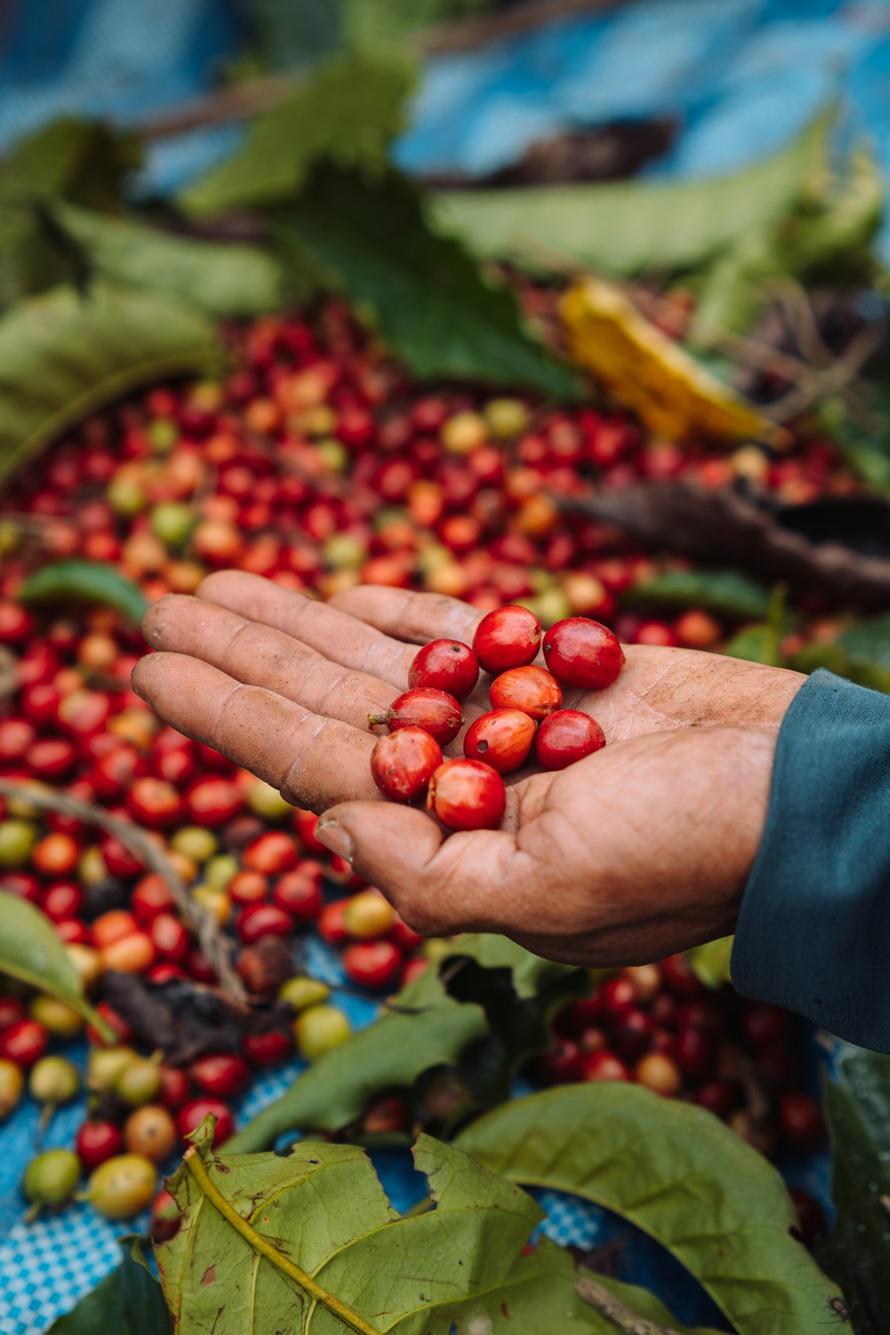
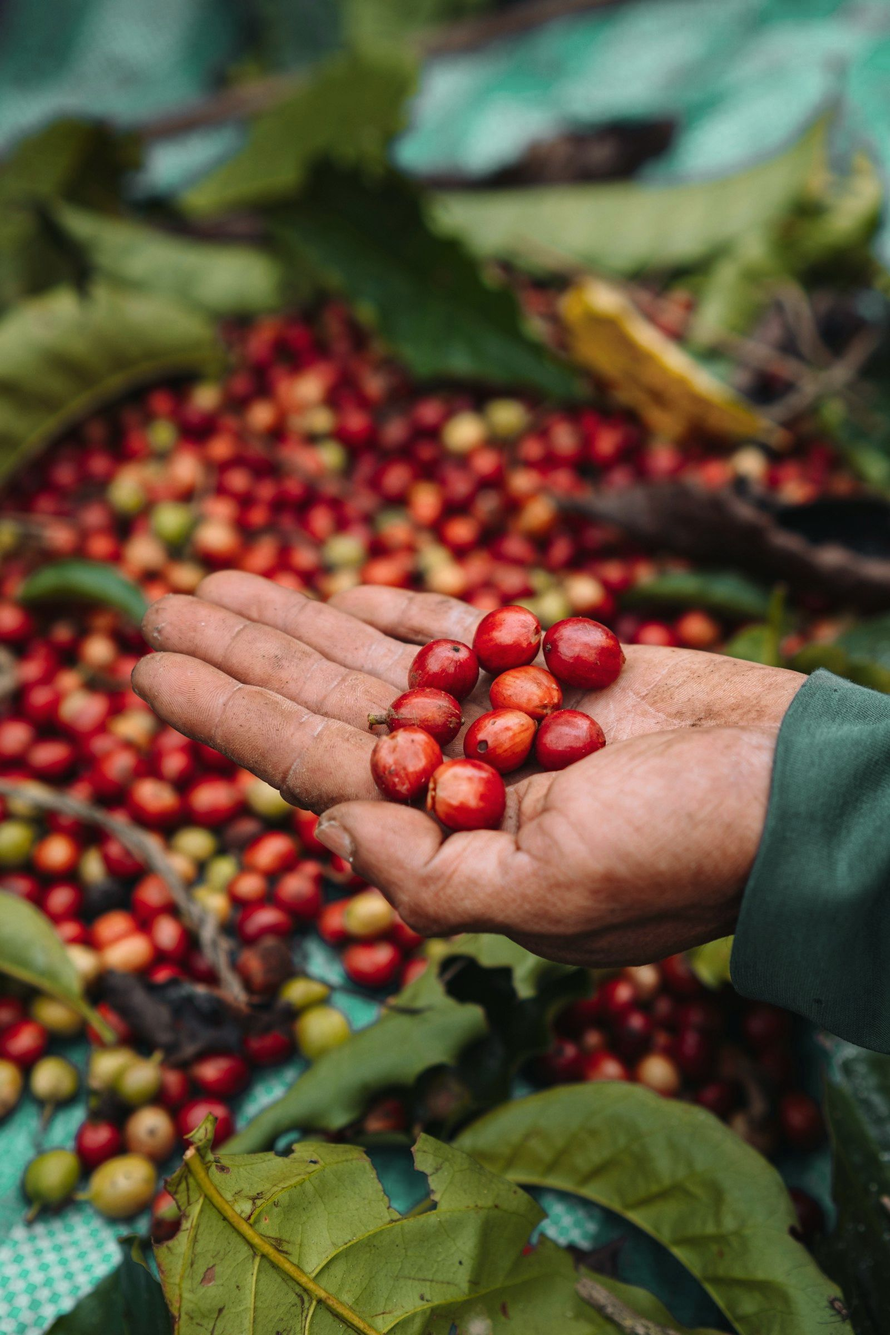
Aplicar correcciones de la revisión de diseño
- Marcar datos, precios y lotes como de ejemplo
- Gradación verde común en todas las fotografías
- Quitar etiqueta superior de la ficha del lote y la cinta dorada de la tarjeta
- Controles anterior/siguiente en el archivo y numerales sin cortes en móvil
- Acción principal del hero: Comprar el lote

Claude-Session: https://claude.ai/code/session_01PXgD8Bq7vhNtAddY695vt4

diff --git a/styles.css b/styles.css
@@ -208,8 +208,7 @@ button { cursor: pointer; -webkit-tap-highlight-color: transparent; }
   box-shadow: 0 30px 60px -20px rgba(0, 0, 0, .45);
   animation: fade 900ms 600ms var(--ease-out) both;
 }
-.lotcard__name { margin: 0; font-size: .82rem; font-weight: 700; letter-spacing: .08em; text-transform: uppercase; color: var(--emerald); }
-.lotcard__origin { margin: 6px 0 0; font-family: var(--display); font-size: 2rem; line-height: 1.05; color: var(--forest); }
+.lotcard__origin { margin: 0; font-family: var(--display); font-size: 2rem; line-height: 1.05; color: var(--forest); }
 .lotcard__notes { margin: 10px 0 18px; font-size: .95rem; color: var(--ink-soft); }
 .lotcard__row { display: flex; align-items: center; justify-content: space-between; gap: 12px; padding-top: 16px; border-top: 1px solid var(--line); }
 .lotcard__price { margin: 0; font-family: var(--display); font-size: 1.6rem; color: var(--forest); font-variant-numeric: tabular-nums; }
@@ -326,7 +325,6 @@ button { cursor: pointer; -webkit-tap-highlight-color: transparent; }
   box-shadow: 0 30px 50px -18px rgba(14, 34, 25, .4);
   transform: rotate(-2.5deg);
 }
-.giftcard::before { content: ""; position: absolute; top: -8px; left: 28px; width: 46px; height: 16px; background: var(--brass); border-radius: 2px; opacity: .9; }
 .giftcard__to { margin: 0 0 8px; font-family: var(--display); font-size: 1.7rem; color: var(--forest); }
 .giftcard__msg { margin: 0 0 18px; font-family: var(--display); font-size: 1.15rem; line-height: 1.35; color: var(--emerald); min-height: 3em; overflow-wrap: anywhere; }
 .giftcard__from { margin: 0; padding-top: 12px; border-top: 1px solid var(--line); font-size: .8rem; color: var(--ink-soft); }
@@ -365,6 +363,15 @@ button { cursor: pointer; -webkit-tap-highlight-color: transparent; }
 /* ---------- ARCHIVO ---------- */
 .archive { padding: var(--section) 0; }
 .archive__head { max-width: var(--wrap); margin: 0 auto 56px; padding: 0 var(--gutter); display: grid; grid-template-columns: 1fr 1fr; gap: 48px; align-items: end; }
+.archive__side { display: grid; gap: 20px; }
+.sample-inline { color: var(--emerald); font-weight: 600; }
+.sample-note { margin: -16px 0 32px; font-size: .85rem; color: var(--ink-soft); }
+.rail-ctrl { display: flex; gap: 8px; }
+.rail-btn { display: grid; place-items: center; width: 48px; height: 48px; border: 1px solid var(--line); border-radius: 50%; background: transparent; color: var(--forest); transition: background-color 200ms ease, color 200ms ease, transform 160ms var(--ease-out), opacity 200ms ease; }
+.rail-btn svg { width: 20px; height: 20px; fill: none; stroke: currentColor; stroke-width: 1.6; }
+.rail-btn:active { transform: scale(.94); }
+.rail-btn:disabled { opacity: .35; cursor: default; }
+@media (hover: hover) and (pointer: fine) { .rail-btn:not(:disabled):hover { background: var(--forest); color: var(--on-dark); } }
 .archive__head p { margin: 0; font-size: 1.1rem; color: var(--ink-soft); max-width: 30em; }
 .rail {
   display: grid; grid-auto-flow: column; grid-auto-columns: clamp(260px, 26vw, 330px); gap: 16px;
@@ -379,7 +386,7 @@ button { cursor: pointer; -webkit-tap-highlight-color: transparent; }
   display: flex; flex-direction: column; min-height: 400px; padding: 28px;
   border-radius: 6px; color: var(--on-dark);
 }
-.plate .plate__n { margin: 0 0 auto; font-family: var(--display); font-size: 5.2rem; line-height: .9; letter-spacing: -.03em; }
+.plate .plate__n { margin: 0 0 auto; white-space: nowrap; font-family: var(--display); font-size: clamp(3.6rem, 5vw, 5.2rem); line-height: .9; letter-spacing: -.03em; }
 .plate h3 { margin: 0 0 6px; font-family: var(--display); font-weight: 400; font-size: 1.75rem; line-height: 1.1; }
 .plate p { margin: 0; font-size: .95rem; }
 .plate__tag { align-self: flex-start; margin-bottom: 18px; padding: 4px 12px; border: 1px solid currentColor; border-radius: 999px; font-size: .78rem; font-weight: 600; }

diff --git a/index.html b/index.html
@@ -67,15 +67,14 @@
             Para servírtelo despacio, o para sorprender a alguien que lo merece.
           </p>
           <div class="hero__ctas">
-            <a href="#lote" class="btn btn--light">Descubrir el lote</a>
+            <a href="#lote" class="btn btn--light">Comprar el lote</a>
             <a href="#regalar" class="btn btn--line-light">Regalar due.</a>
           </div>
         </div>
 
         <aside class="lotcard" aria-label="Lote de esta temporada">
-          <p class="lotcard__name">Lote Nº 07</p>
           <p class="lotcard__origin">Pitalito, Huila</p>
-          <p class="lotcard__notes">Pink Bourbon lavado. Frambuesa, panela y jazmín.</p>
+          <p class="lotcard__notes">Lote Nº 07 · Pink Bourbon lavado. Frambuesa, panela y jazmín.</p>
           <div class="lotcard__row">
             <p class="lotcard__price"><span data-money="72000">$72.000</span> <small>250 g</small></p>
             <button type="button" class="btn btn--forest btn--sm" data-quick-add>Añadir</button>
@@ -123,6 +122,7 @@
           <div><dt>Variedad</dt><dd>Pink Bourbon</dd></div>
           <div><dt>Proceso</dt><dd>Lavado, 72 h de fermentación</dd></div>
         </dl>
+        <p class="sample-note">Datos de ejemplo: productora, finca, precios y existencias se reemplazarán por los del lote real.</p>
 
         <div class="profile" aria-label="Perfil de taza">
           <div class="profile__row"><span>Acidez</span><div class="profile__bar"><i style="--v:.82"></i></div><em>Brillante</em></div>
@@ -280,12 +280,19 @@
     <section class="archive" id="archivo" aria-labelledby="archive-title">
       <div class="archive__head">
         <h2 class="display display--md" id="archive-title">Lo que ya no vuelve.</h2>
-        <p>Cada lote agotado queda aquí como una página de nuestra historia. El siguiente está en camino.</p>
+        <div class="archive__side">
+          <p>Cada lote agotado queda aquí como una página de nuestra historia. El siguiente está en camino. <span class="sample-inline">Lotes de ejemplo.</span></p>
+          <div class="rail-ctrl">
+            <button type="button" class="rail-btn" data-rail="-1" aria-label="Lotes anteriores"><svg viewBox="0 0 24 24" aria-hidden="true"><path d="M15 5l-7 7 7 7"/></svg></button>
+            <button type="button" class="rail-btn" data-rail="1" aria-label="Lotes siguientes"><svg viewBox="0 0 24 24" aria-hidden="true"><path d="M9 5l7 7-7 7"/></svg></button>
+          </div>
+        </div>
       </div>
-      <div class="rail" tabindex="0" aria-label="Lotes anteriores y próximo lote">
+      <div class="rail" data-rail-track tabindex="0" aria-label="Lotes anteriores y próximo lote">
         <article class="plate plate--next">
+          <span class="plate__tag">En camino</span>
           <p class="plate__n">Nº 08</p>
-          <h3>Muy pronto</h3>
+          <h3>Origen por revelar</h3>
           <p>Un natural de altura. Fruta de hueso y flor de azahar.</p>
           <div class="countdown" data-countdown="2026-11-20T10:00:00-05:00">
             <div><b data-cd="d">00</b><span>días</span></div>
@@ -334,7 +341,7 @@
     </div>
     <div class="footer__base">
       <p>© 2026 due.</p>
-      <p>Fotografías: Unsplash.</p>
+      <p>Contenido, precios y lotes de ejemplo. Fotografías: Unsplash.</p>
     </div>
   </footer>
 

diff --git a/script.js b/script.js
@@ -251,6 +251,21 @@
     setSolid();
   }));
 
+  /* ---------- Archivo: desplazamiento ---------- */
+  const track = $('[data-rail-track]');
+  const [prevBtn, nextBtn] = $$('[data-rail]');
+  const updateRail = () => {
+    prevBtn.disabled = track.scrollLeft <= 4;
+    nextBtn.disabled = track.scrollLeft + track.clientWidth >= track.scrollWidth - 4;
+  };
+  [prevBtn, nextBtn].forEach((b) => b.addEventListener('click', () => {
+    const step = track.querySelector('.plate').getBoundingClientRect().width + 16;
+    track.scrollBy({ left: Number(b.dataset.rail) * step, behavior: matchMedia('(prefers-reduced-motion: reduce)').matches ? 'auto' : 'smooth' });
+  }));
+  track.addEventListener('scroll', updateRail, { passive: true });
+  window.addEventListener('resize', updateRail);
+  updateRail();
+
   /* ---------- Revelado de fotografías ---------- */
   if ('IntersectionObserver' in window) {
     const io = new IntersectionObserver((entries) => {
